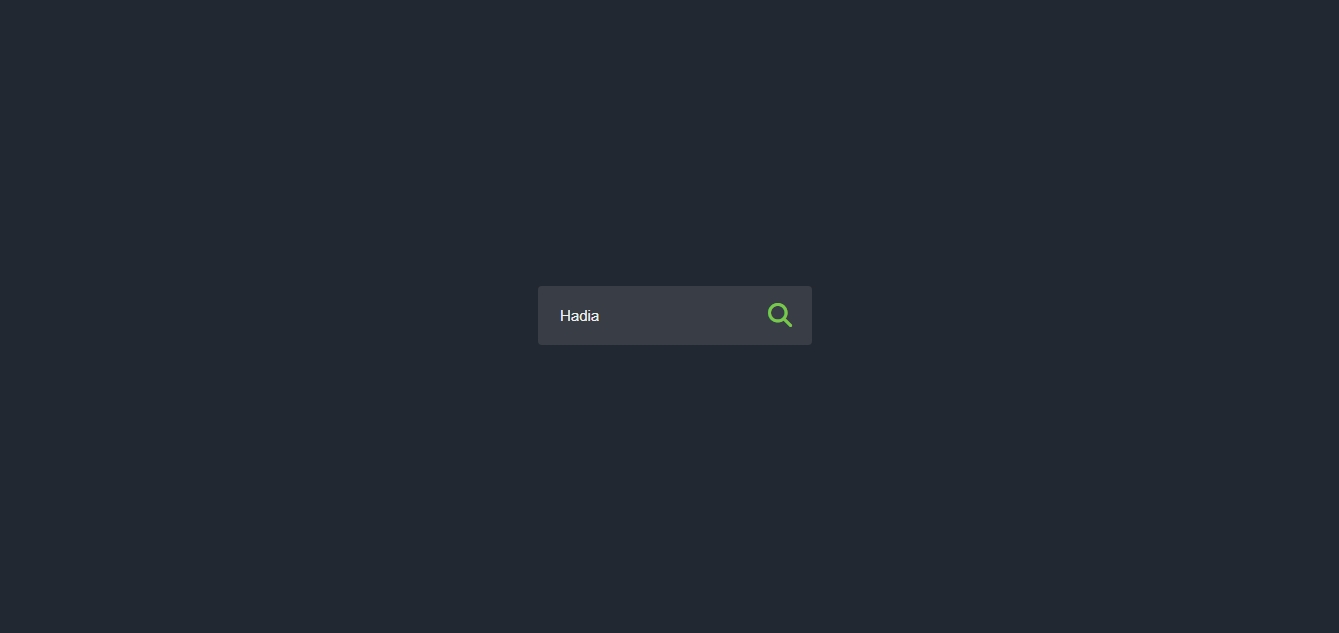
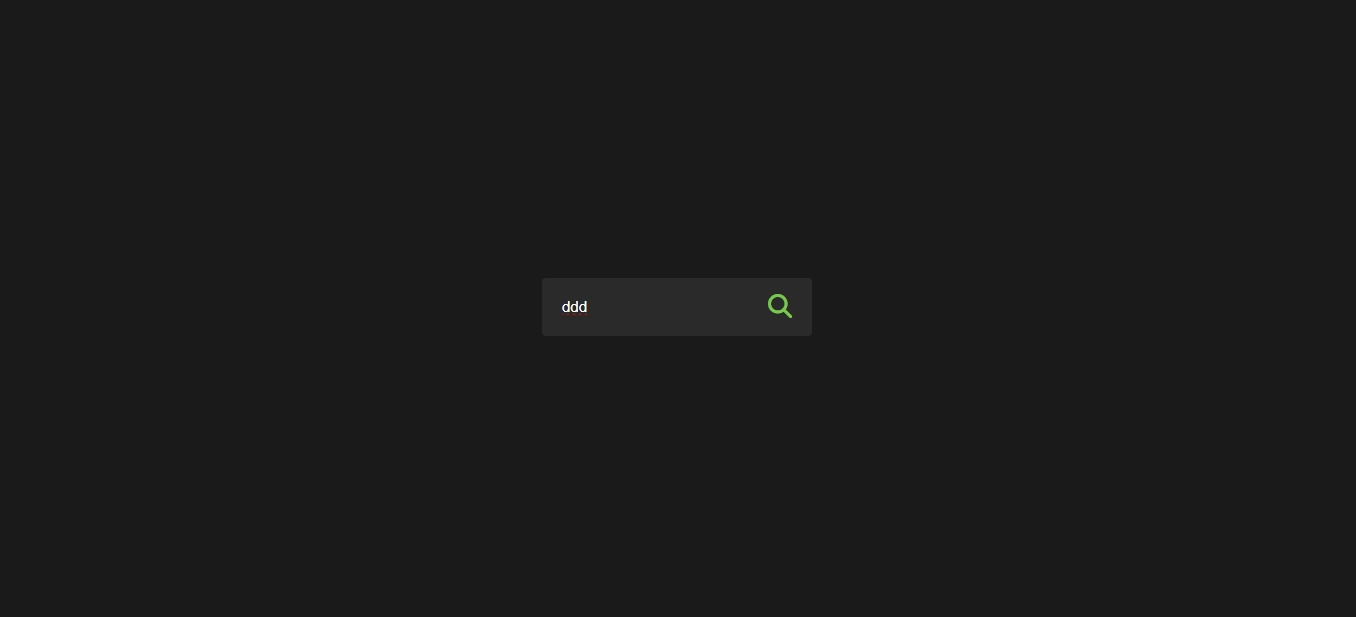
Updated the Search Widget CSS's and Img

Changed region(s): [[0.3981, 0.4311, 0.6124, 0.5543]]

diff --git a/03.Hidden-Search-Widget/style.css b/03.Hidden-Search-Widget/style.css
@@ -2,19 +2,20 @@
 body{
     height: 100vh;
     flex-direction:row;
+    background-color: var(--dark-grey);
 }
 
 #box{
     padding:20px;
     border-radius: 4px;
-    background-color:var(--grey-color);
+    background-color:var(--light-dark-grey);
 }
 
 #searchInput{
     border: 0;
     outline: 0;
     background-color: transparent;
-    color: var(--white-color);
+    color: var(--bright-white-grey);
     font-size: 15px;
     margin-right: 10px;
     transition: display 3s ease-in 
